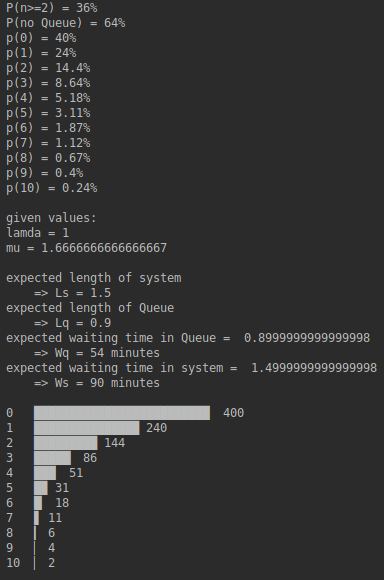
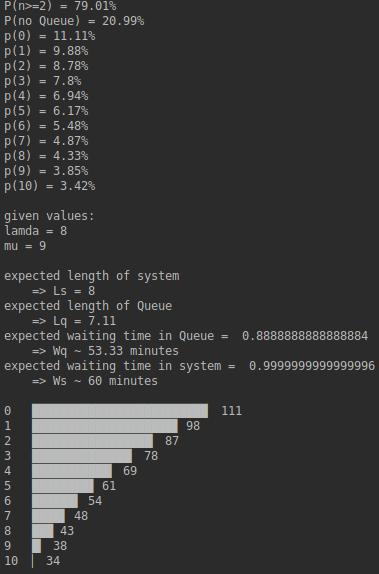
Refactored

diff --git a/main/main.go b/main/main.go
@@ -10,7 +10,7 @@ import (
 func main() {
 	var queue Queue.Queue
 
-	queue = queue.Init(1.0, 1/0.6)
+	queue = queue.Init(8.0, 9.0)
 
 	if showProbabilities := true; showProbabilities {
 		queue.PrintProbabilities()
@@ -36,8 +36,8 @@ func main() {
 	waitingTimeInQueue := queue.WaitingTimeInQueue()
 	waitingTimeInSystem := queue.WaitingTimeInSystem()
 
-	fmt.Println("expected waiting time in Queue = ", waitingTimeInQueue, "\n\t=> Wq =", Queue.Round(waitingTimeInQueue*60), "minutes")
-	fmt.Println("expected waiting time in system = ", waitingTimeInSystem, "\n\t=> Ws =", Queue.Round(waitingTimeInSystem*60), "minutes \n ")
+	fmt.Println("expected waiting time in Queue = ", waitingTimeInQueue, "\n\t=> Wq ~", Queue.Round(waitingTimeInQueue*60), "minutes")
+	fmt.Println("expected waiting time in system = ", waitingTimeInSystem, "\n\t=> Ws ~", Queue.Round(waitingTimeInSystem*60), "minutes \n ")
 
 	plot := barchart.BarChartXYs(data)
 	if err := barchart.Fprint(os.Stdout, plot, barchart.Linear(25)); err != nil {
